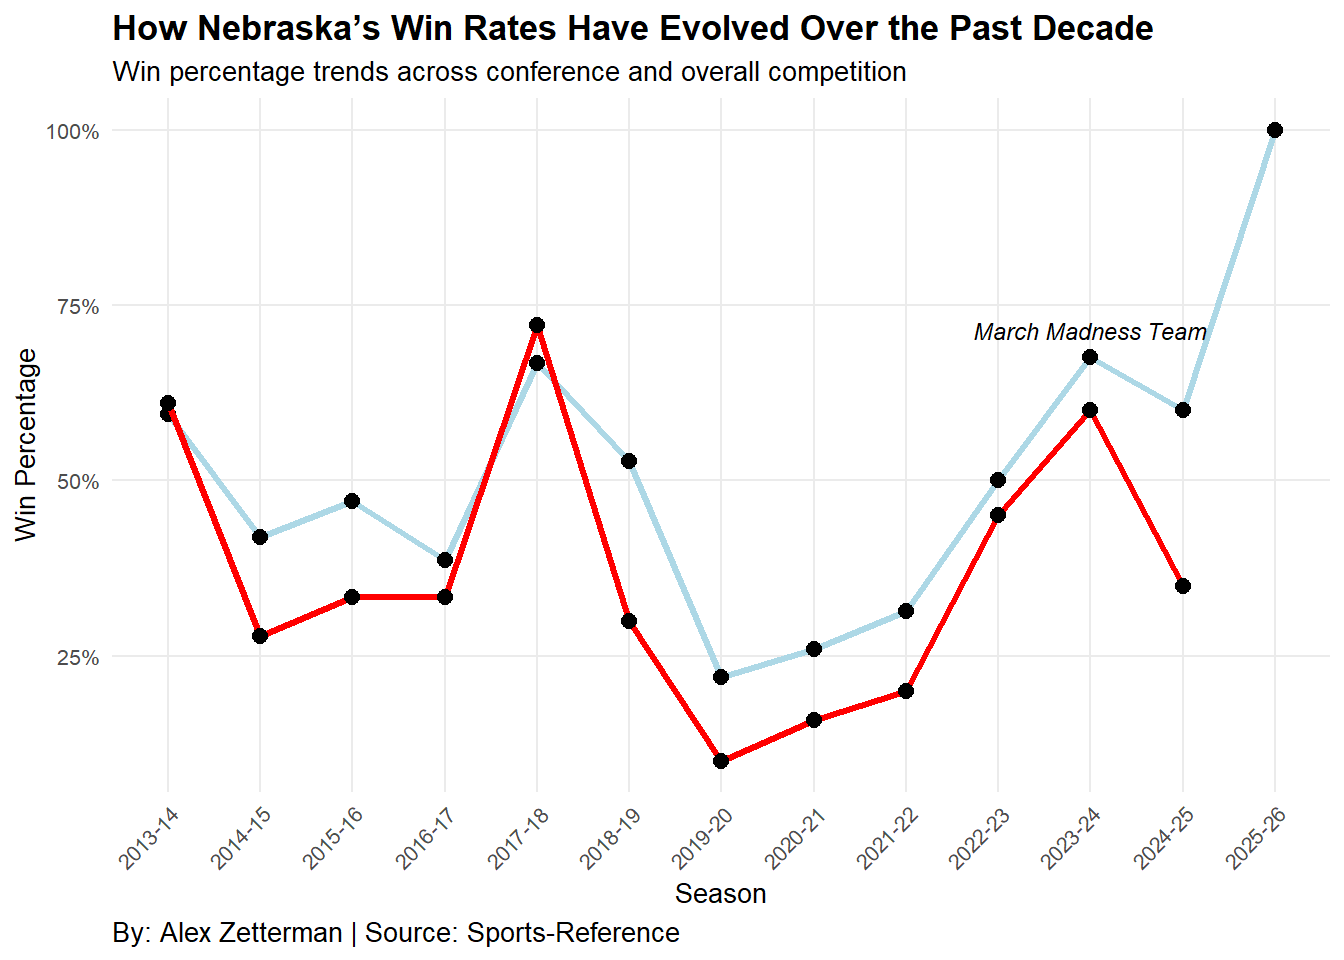
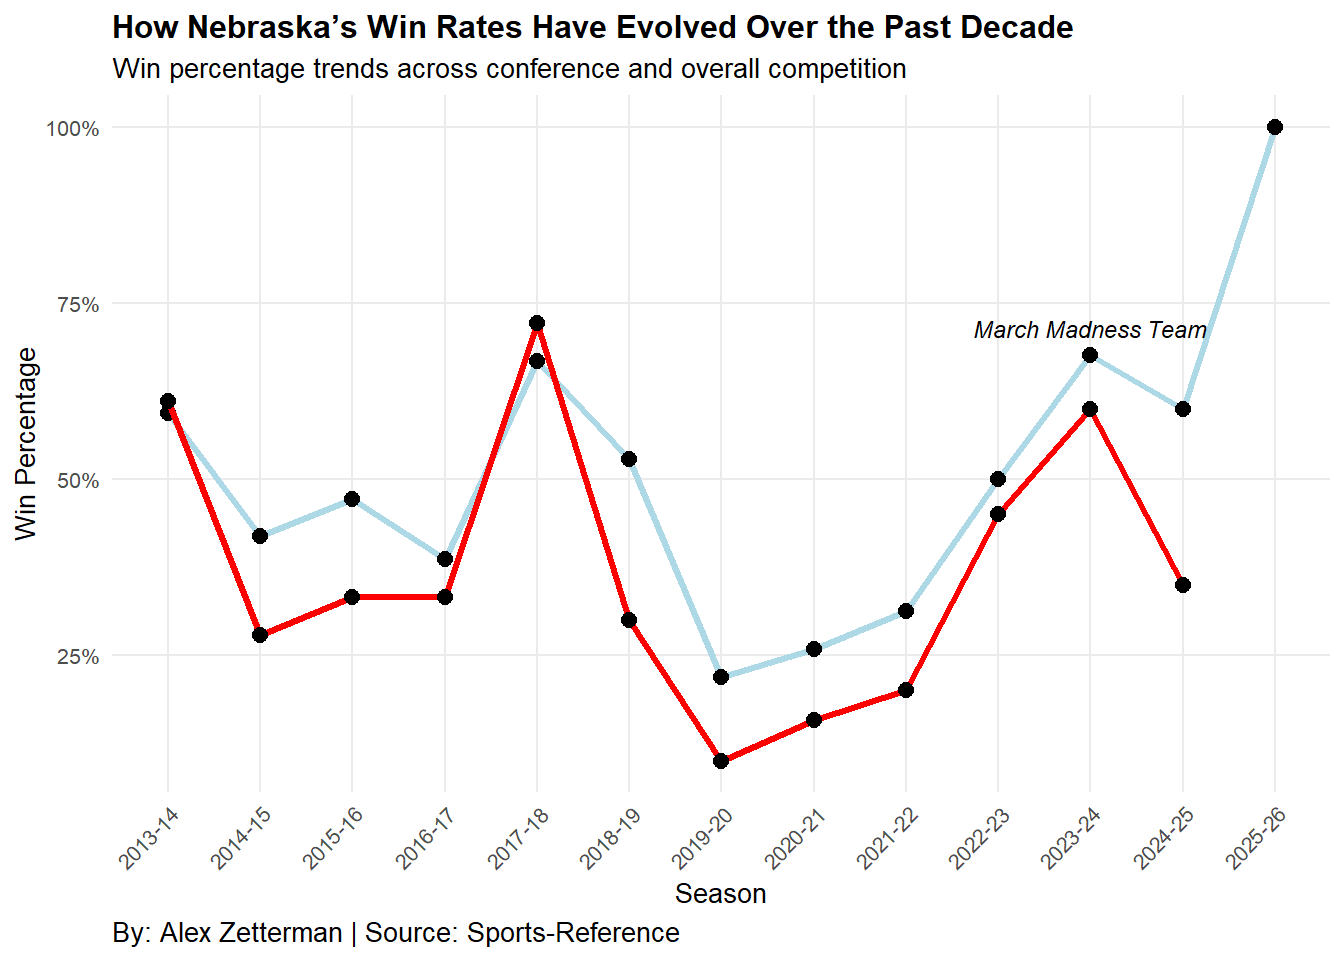
edit

diff --git a/posts/Nebraksa-Mens-Basketball/Index.html b/posts/Nebraksa-Mens-Basketball/Index.html
@@ -9,7 +9,7 @@
 <meta name="author" content="Alex Zetterman">
 <meta name="dcterms.date" content="2025-12-09">
 
-<title>Nebraska’s 2023-2024 team compared to the last decade – Alex's Sports Blog</title>
+<title>Nebraska’s 2023-2024 team compared to the previous decade – Alex's Sports Blog</title>
 <style>
 code{white-space: pre-wrap;}
 span.smallcaps{font-variant: small-caps;}
@@ -322,7 +322,7 @@ pre > code.sourceCode > span > a:first-child::before { text-decoration: underlin
 <header id="title-block-header" class="quarto-title-block default page-columns page-full">
   <div class="quarto-title-banner page-columns page-full">
     <div class="quarto-title column-body">
-      <h1 class="title">Nebraska’s 2023-2024 team compared to the last decade</h1>
+      <h1 class="title">Nebraska’s 2023-2024 team compared to the previous decade</h1>
                                 <div class="quarto-categories">
                 <div class="quarto-category">Basketball</div>
                 <div class="quarto-category">NCAAB</div>
@@ -406,7 +406,7 @@ pre > code.sourceCode > span > a:first-child::before { text-decoration: underlin
 <span id="cb1-37"><a href="#cb1-37" aria-hidden="true" tabindex="-1"></a>  ) <span class="sc">+</span></span>
 <span id="cb1-38"><a href="#cb1-38" aria-hidden="true" tabindex="-1"></a>  <span class="fu">theme_minimal</span>(<span class="at">base_size =</span> <span class="dv">10</span>) <span class="sc">+</span></span>
 <span id="cb1-39"><a href="#cb1-39" aria-hidden="true" tabindex="-1"></a>  <span class="fu">theme</span>(</span>
-<span id="cb1-40"><a href="#cb1-40" aria-hidden="true" tabindex="-1"></a>    <span class="at">plot.title =</span> <span class="fu">element_text</span>(<span class="at">face =</span> <span class="st">"bold"</span>, <span class="at">size =</span> <span class="dv">13</span>),</span>
+<span id="cb1-40"><a href="#cb1-40" aria-hidden="true" tabindex="-1"></a>    <span class="at">plot.title =</span> <span class="fu">element_text</span>(<span class="at">face =</span> <span class="st">"bold"</span>, <span class="at">size =</span> <span class="dv">12</span>),</span>
 <span id="cb1-41"><a href="#cb1-41" aria-hidden="true" tabindex="-1"></a>    <span class="at">plot.caption =</span> <span class="fu">element_text</span>(<span class="at">size =</span> <span class="dv">10</span>, <span class="at">hjust =</span> <span class="dv">0</span>),</span>
 <span id="cb1-42"><a href="#cb1-42" aria-hidden="true" tabindex="-1"></a>    <span class="at">panel.grid.minor =</span> <span class="fu">element_blank</span>(),</span>
 <span id="cb1-43"><a href="#cb1-43" aria-hidden="true" tabindex="-1"></a>    <span class="at">axis.text.x =</span> <span class="fu">element_text</span>(<span class="at">angle =</span> <span class="dv">45</span>, <span class="at">hjust =</span> <span class="dv">1</span>)</span>
@@ -421,8 +421,89 @@ pre > code.sourceCode > span > a:first-child::before { text-decoration: underlin
 </div>
 </div>
 <p>The line chart shows how Nebraska’s overall and conference win percentages have shifted over the past decade, highlighting periods of growth, inconsistency, and eventual stabilization. Both trend lines reveal that while Nebraska experienced several up-and-down seasons, the program has gradually strengthened its performance, especially in recent years. Ever since Fred Hoiberg took over in 2019 the success has gone up every season. The 2023–24 season labeled “March Madness Team” marks one of the highest combined win rates in the dataset, indicating measurable progress in both conference play and overall competition. Overall, the chart suggests that Nebraska is trending upward, becoming more competitive within the Big Ten and more capable of producing postseason-caliber seasons.</p>
-<p>2. Bar chart showing points per game and opponent points per game. One bar chart for overall and then another graph for conference pay. Or research other graphs that would better show this. Maybe a line graph with a point on each season and conference play in one color and overall play in another color.</p>
-<p>1. Line graph showing point differential combined with strength of schedule&nbsp;</p>
+<p>How does the 2023-2024 line up against the previous seasons for point differential and strength of schedule?</p>
+<div class="cell">
+<details class="code-fold">
+<summary>Code</summary>
+<div class="code-copy-outer-scaffold"><div class="sourceCode cell-code" id="cb2"><pre class="sourceCode r code-with-copy"><code class="sourceCode r"><span id="cb2-1"><a href="#cb2-1" aria-hidden="true" tabindex="-1"></a>Nebraska_Season <span class="ot">&lt;-</span> Nebraska_Season <span class="sc">%&gt;%</span></span>
+<span id="cb2-2"><a href="#cb2-2" aria-hidden="true" tabindex="-1"></a>  <span class="fu">mutate</span>(<span class="at">Point_Diff =</span> Points_For <span class="sc">-</span> Points_Against)</span>
+<span id="cb2-3"><a href="#cb2-3" aria-hidden="true" tabindex="-1"></a></span>
+<span id="cb2-4"><a href="#cb2-4" aria-hidden="true" tabindex="-1"></a><span class="co"># Midpoints for quadrants</span></span>
+<span id="cb2-5"><a href="#cb2-5" aria-hidden="true" tabindex="-1"></a>x_mid <span class="ot">&lt;-</span> <span class="fl">7.5</span>  <span class="co"># Moderate SOS</span></span>
+<span id="cb2-6"><a href="#cb2-6" aria-hidden="true" tabindex="-1"></a>y_mid <span class="ot">&lt;-</span> (<span class="fu">min</span>(Nebraska_Season<span class="sc">$</span>Point_Diff, <span class="at">na.rm =</span> <span class="cn">TRUE</span>) <span class="sc">+</span> <span class="fu">max</span>(Nebraska_Season<span class="sc">$</span>Point_Diff, <span class="at">na.rm =</span> <span class="cn">TRUE</span>)) <span class="sc">/</span> <span class="dv">2</span></span>
+<span id="cb2-7"><a href="#cb2-7" aria-hidden="true" tabindex="-1"></a></span>
+<span id="cb2-8"><a href="#cb2-8" aria-hidden="true" tabindex="-1"></a><span class="co"># Plot</span></span>
+<span id="cb2-9"><a href="#cb2-9" aria-hidden="true" tabindex="-1"></a><span class="fu">ggplot</span>(Nebraska_Season, <span class="fu">aes</span>(<span class="at">x =</span> SOS, <span class="at">y =</span> Point_Diff)) <span class="sc">+</span></span>
+<span id="cb2-10"><a href="#cb2-10" aria-hidden="true" tabindex="-1"></a>  </span>
+<span id="cb2-11"><a href="#cb2-11" aria-hidden="true" tabindex="-1"></a>  <span class="co"># Quadrant lines</span></span>
+<span id="cb2-12"><a href="#cb2-12" aria-hidden="true" tabindex="-1"></a>  <span class="fu">geom_vline</span>(<span class="at">xintercept =</span> x_mid, <span class="at">linetype =</span> <span class="st">"dashed"</span>, <span class="at">color =</span> <span class="st">"black"</span>) <span class="sc">+</span></span>
+<span id="cb2-13"><a href="#cb2-13" aria-hidden="true" tabindex="-1"></a>  <span class="fu">geom_hline</span>(<span class="at">yintercept =</span> y_mid, <span class="at">linetype =</span> <span class="st">"dashed"</span>, <span class="at">color =</span> <span class="st">"black"</span>) <span class="sc">+</span></span>
+<span id="cb2-14"><a href="#cb2-14" aria-hidden="true" tabindex="-1"></a>  </span>
+<span id="cb2-15"><a href="#cb2-15" aria-hidden="true" tabindex="-1"></a>  <span class="co"># Grey dots for all seasons</span></span>
+<span id="cb2-16"><a href="#cb2-16" aria-hidden="true" tabindex="-1"></a>  <span class="fu">geom_point</span>(<span class="at">color =</span> <span class="st">"grey50"</span>, <span class="at">size =</span> <span class="dv">3</span>) <span class="sc">+</span></span>
+<span id="cb2-17"><a href="#cb2-17" aria-hidden="true" tabindex="-1"></a>  </span>
+<span id="cb2-18"><a href="#cb2-18" aria-hidden="true" tabindex="-1"></a>  <span class="co"># Highlight 2023–24</span></span>
+<span id="cb2-19"><a href="#cb2-19" aria-hidden="true" tabindex="-1"></a>  <span class="fu">geom_point</span>(</span>
+<span id="cb2-20"><a href="#cb2-20" aria-hidden="true" tabindex="-1"></a>    <span class="at">data =</span> <span class="fu">subset</span>(Nebraska_Season, Season <span class="sc">==</span> <span class="st">"2023-24"</span>),</span>
+<span id="cb2-21"><a href="#cb2-21" aria-hidden="true" tabindex="-1"></a>    <span class="fu">aes</span>(<span class="at">x =</span> SOS, <span class="at">y =</span> Point_Diff),</span>
+<span id="cb2-22"><a href="#cb2-22" aria-hidden="true" tabindex="-1"></a>    <span class="at">color =</span> <span class="st">"red"</span>,</span>
+<span id="cb2-23"><a href="#cb2-23" aria-hidden="true" tabindex="-1"></a>    <span class="at">size =</span> <span class="dv">4</span></span>
+<span id="cb2-24"><a href="#cb2-24" aria-hidden="true" tabindex="-1"></a>  ) <span class="sc">+</span></span>
+<span id="cb2-25"><a href="#cb2-25" aria-hidden="true" tabindex="-1"></a>  </span>
+<span id="cb2-26"><a href="#cb2-26" aria-hidden="true" tabindex="-1"></a>  <span class="co"># Red label for 2023–24</span></span>
+<span id="cb2-27"><a href="#cb2-27" aria-hidden="true" tabindex="-1"></a>  <span class="fu">geom_text</span>(</span>
+<span id="cb2-28"><a href="#cb2-28" aria-hidden="true" tabindex="-1"></a>    <span class="at">data =</span> <span class="fu">subset</span>(Nebraska_Season, Season <span class="sc">==</span> <span class="st">"2023-24"</span>),</span>
+<span id="cb2-29"><a href="#cb2-29" aria-hidden="true" tabindex="-1"></a>    <span class="fu">aes</span>(<span class="at">label =</span> <span class="st">"2023–24"</span>),</span>
+<span id="cb2-30"><a href="#cb2-30" aria-hidden="true" tabindex="-1"></a>    <span class="at">color =</span> <span class="st">"red"</span>,</span>
+<span id="cb2-31"><a href="#cb2-31" aria-hidden="true" tabindex="-1"></a>    <span class="at">fontface =</span> <span class="st">"bold"</span>,</span>
+<span id="cb2-32"><a href="#cb2-32" aria-hidden="true" tabindex="-1"></a>    <span class="at">vjust =</span> <span class="sc">-</span><span class="fl">1.5</span>,</span>
+<span id="cb2-33"><a href="#cb2-33" aria-hidden="true" tabindex="-1"></a>    <span class="at">size =</span> <span class="fl">3.5</span></span>
+<span id="cb2-34"><a href="#cb2-34" aria-hidden="true" tabindex="-1"></a>  ) <span class="sc">+</span></span>
+<span id="cb2-35"><a href="#cb2-35" aria-hidden="true" tabindex="-1"></a>  </span>
+<span id="cb2-36"><a href="#cb2-36" aria-hidden="true" tabindex="-1"></a>  <span class="co"># Grey labels for all other seasons</span></span>
+<span id="cb2-37"><a href="#cb2-37" aria-hidden="true" tabindex="-1"></a>  <span class="fu">geom_text</span>(</span>
+<span id="cb2-38"><a href="#cb2-38" aria-hidden="true" tabindex="-1"></a>    <span class="at">data =</span> <span class="fu">subset</span>(Nebraska_Season, Season <span class="sc">!=</span> <span class="st">"2023-24"</span>),</span>
+<span id="cb2-39"><a href="#cb2-39" aria-hidden="true" tabindex="-1"></a>    <span class="fu">aes</span>(<span class="at">label =</span> Season),</span>
+<span id="cb2-40"><a href="#cb2-40" aria-hidden="true" tabindex="-1"></a>    <span class="at">color =</span> <span class="st">"grey50"</span>,</span>
+<span id="cb2-41"><a href="#cb2-41" aria-hidden="true" tabindex="-1"></a>    <span class="at">nudge_y =</span> <span class="fl">0.8</span>,</span>
+<span id="cb2-42"><a href="#cb2-42" aria-hidden="true" tabindex="-1"></a>    <span class="at">size =</span> <span class="dv">3</span>,</span>
+<span id="cb2-43"><a href="#cb2-43" aria-hidden="true" tabindex="-1"></a>    <span class="at">check_overlap =</span> <span class="cn">TRUE</span></span>
+<span id="cb2-44"><a href="#cb2-44" aria-hidden="true" tabindex="-1"></a>  ) <span class="sc">+</span></span>
+<span id="cb2-45"><a href="#cb2-45" aria-hidden="true" tabindex="-1"></a>  </span>
+<span id="cb2-46"><a href="#cb2-46" aria-hidden="true" tabindex="-1"></a>  <span class="co"># Custom axis scales</span></span>
+<span id="cb2-47"><a href="#cb2-47" aria-hidden="true" tabindex="-1"></a>  <span class="fu">scale_x_continuous</span>(</span>
+<span id="cb2-48"><a href="#cb2-48" aria-hidden="true" tabindex="-1"></a>    <span class="at">breaks =</span> <span class="fu">c</span>(<span class="dv">5</span>, <span class="fl">7.5</span>, <span class="dv">10</span>),</span>
+<span id="cb2-49"><a href="#cb2-49" aria-hidden="true" tabindex="-1"></a>    <span class="at">labels =</span> <span class="fu">c</span>(<span class="st">"Easy"</span>, <span class="st">"Moderate"</span>, <span class="st">"Tough"</span>)</span>
+<span id="cb2-50"><a href="#cb2-50" aria-hidden="true" tabindex="-1"></a>  ) <span class="sc">+</span></span>
+<span id="cb2-51"><a href="#cb2-51" aria-hidden="true" tabindex="-1"></a>  <span class="fu">scale_y_continuous</span>(</span>
+<span id="cb2-52"><a href="#cb2-52" aria-hidden="true" tabindex="-1"></a>    <span class="at">breaks =</span> <span class="fu">c</span>(<span class="sc">-</span><span class="dv">10</span>, <span class="sc">-</span><span class="dv">5</span>, <span class="dv">0</span>, <span class="dv">5</span>, <span class="dv">10</span>)</span>
+<span id="cb2-53"><a href="#cb2-53" aria-hidden="true" tabindex="-1"></a>  ) <span class="sc">+</span></span>
+<span id="cb2-54"><a href="#cb2-54" aria-hidden="true" tabindex="-1"></a>  </span>
+<span id="cb2-55"><a href="#cb2-55" aria-hidden="true" tabindex="-1"></a>  <span class="fu">labs</span>(</span>
+<span id="cb2-56"><a href="#cb2-56" aria-hidden="true" tabindex="-1"></a>    <span class="at">title =</span> <span class="st">"Nebraska Season Performance Relative to Schedule Difficulty"</span>,</span>
+<span id="cb2-57"><a href="#cb2-57" aria-hidden="true" tabindex="-1"></a>    <span class="at">subtitle =</span> <span class="st">"The 2023-2024 team had an easier schedule compared to other years but also outscored their opponents by an average of 7 points"</span>,</span>
+<span id="cb2-58"><a href="#cb2-58" aria-hidden="true" tabindex="-1"></a>    <span class="at">x =</span> <span class="st">"Strength of Schedule"</span>,</span>
+<span id="cb2-59"><a href="#cb2-59" aria-hidden="true" tabindex="-1"></a>    <span class="at">y =</span> <span class="st">"Point Differential"</span>,</span>
+<span id="cb2-60"><a href="#cb2-60" aria-hidden="true" tabindex="-1"></a>    <span class="at">caption =</span> <span class="st">"By: Alex Zetterman | Source: Sports-Reference"</span></span>
+<span id="cb2-61"><a href="#cb2-61" aria-hidden="true" tabindex="-1"></a>  ) <span class="sc">+</span></span>
+<span id="cb2-62"><a href="#cb2-62" aria-hidden="true" tabindex="-1"></a>  </span>
+<span id="cb2-63"><a href="#cb2-63" aria-hidden="true" tabindex="-1"></a>  <span class="fu">theme_minimal</span>(<span class="at">base_size =</span> <span class="dv">11</span>) <span class="sc">+</span></span>
+<span id="cb2-64"><a href="#cb2-64" aria-hidden="true" tabindex="-1"></a>  <span class="fu">theme</span>(</span>
+<span id="cb2-65"><a href="#cb2-65" aria-hidden="true" tabindex="-1"></a>    <span class="at">plot.title =</span> <span class="fu">element_text</span>(<span class="at">face =</span> <span class="st">"bold"</span>, <span class="at">size =</span> <span class="dv">11</span>),</span>
+<span id="cb2-66"><a href="#cb2-66" aria-hidden="true" tabindex="-1"></a>    <span class="at">plot.subtitle =</span> <span class="fu">element_text</span>(<span class="at">size=</span><span class="dv">7</span>),</span>
+<span id="cb2-67"><a href="#cb2-67" aria-hidden="true" tabindex="-1"></a>    <span class="at">plot.caption =</span> <span class="fu">element_text</span>(<span class="at">hjust =</span> <span class="dv">0</span>)</span>
+<span id="cb2-68"><a href="#cb2-68" aria-hidden="true" tabindex="-1"></a>  )</span></code></pre></div><button title="Copy to Clipboard" class="code-copy-button"><i class="bi"></i></button></div>
+</details>
+<div class="cell-output-display">
+<div>
+<figure class="figure">
+<p><img src="Index_files/figure-html/unnamed-chunk-3-1.png" class="img-fluid figure-img" width="672"></p>
+</figure>
+</div>
+</div>
+</div>
+<p>The scatter plot displays Nebraska basketball seasons over the past decade, comparing Strength of Schedule on the x-axis with Point Differential on the y-axis. Each dot represents a season, with the 2023–24 team highlighted in red. The chart is divided into four quadrants, allowing quick interpretation of performance relative to schedule difficulty. The 2023–24 team stands out for achieving a strong point differential (+7) while facing a moderately easier schedule, placing it in the quadrant representing high performance against manageable competition. In contrast, other seasons fall across the quadrants, showing a mix of strong or weak point differentials against easier or tougher schedules. Overall, the plot highlights the 2023–24 team as one of Nebraska’s most efficient performers relative to schedule difficulty in recent years.</p>
+<p>Since you see a lot of the teams in the tough part of the chart, this just shows how hard the big 10 conference can be in basketball.</p>
 <p>3. scatter plot that shows strength of schedule vs success.</p>
 
 

diff --git a/index.html b/index.html
@@ -378,7 +378,7 @@ window.Quarto = {
 
 <div class="quarto-listing quarto-listing-container-default" id="listing-listing">
 <div class="list quarto-listing-default">
-<div class="quarto-post image-right" data-index="0" data-categories="QmFza2V0YmFsbCUyQ05DQUFC" data-listing-date-sort="1765260000000" data-listing-file-modified-sort="1764720617214" data-listing-date-modified-sort="NaN" data-listing-reading-time-sort="3" data-listing-word-count-sort="559">
+<div class="quarto-post image-right" data-index="0" data-categories="QmFza2V0YmFsbCUyQ05DQUFC" data-listing-date-sort="1765260000000" data-listing-file-modified-sort="1764729969221" data-listing-date-modified-sort="NaN" data-listing-reading-time-sort="6" data-listing-word-count-sort="1039">
 <div class="thumbnail"><a href="./posts/Nebraksa-Mens-Basketball/Index.html" class="no-external">
 
 <img loading="lazy" src="./posts/Nebraksa-Mens-Basketball/image.png" class="thumbnail-image">
@@ -386,7 +386,7 @@ window.Quarto = {
 </a></div>
 <div class="body">
 <h3 class="no-anchor listing-title">
-<a href="./posts/Nebraksa-Mens-Basketball/Index.html" class="no-external">Nebraska’s 2023-2024 team compared to the last decade</a>
+<a href="./posts/Nebraksa-Mens-Basketball/Index.html" class="no-external">Nebraska’s 2023-2024 team compared to the previous decade</a>
 </h3>
 <div class="listing-categories">
 
